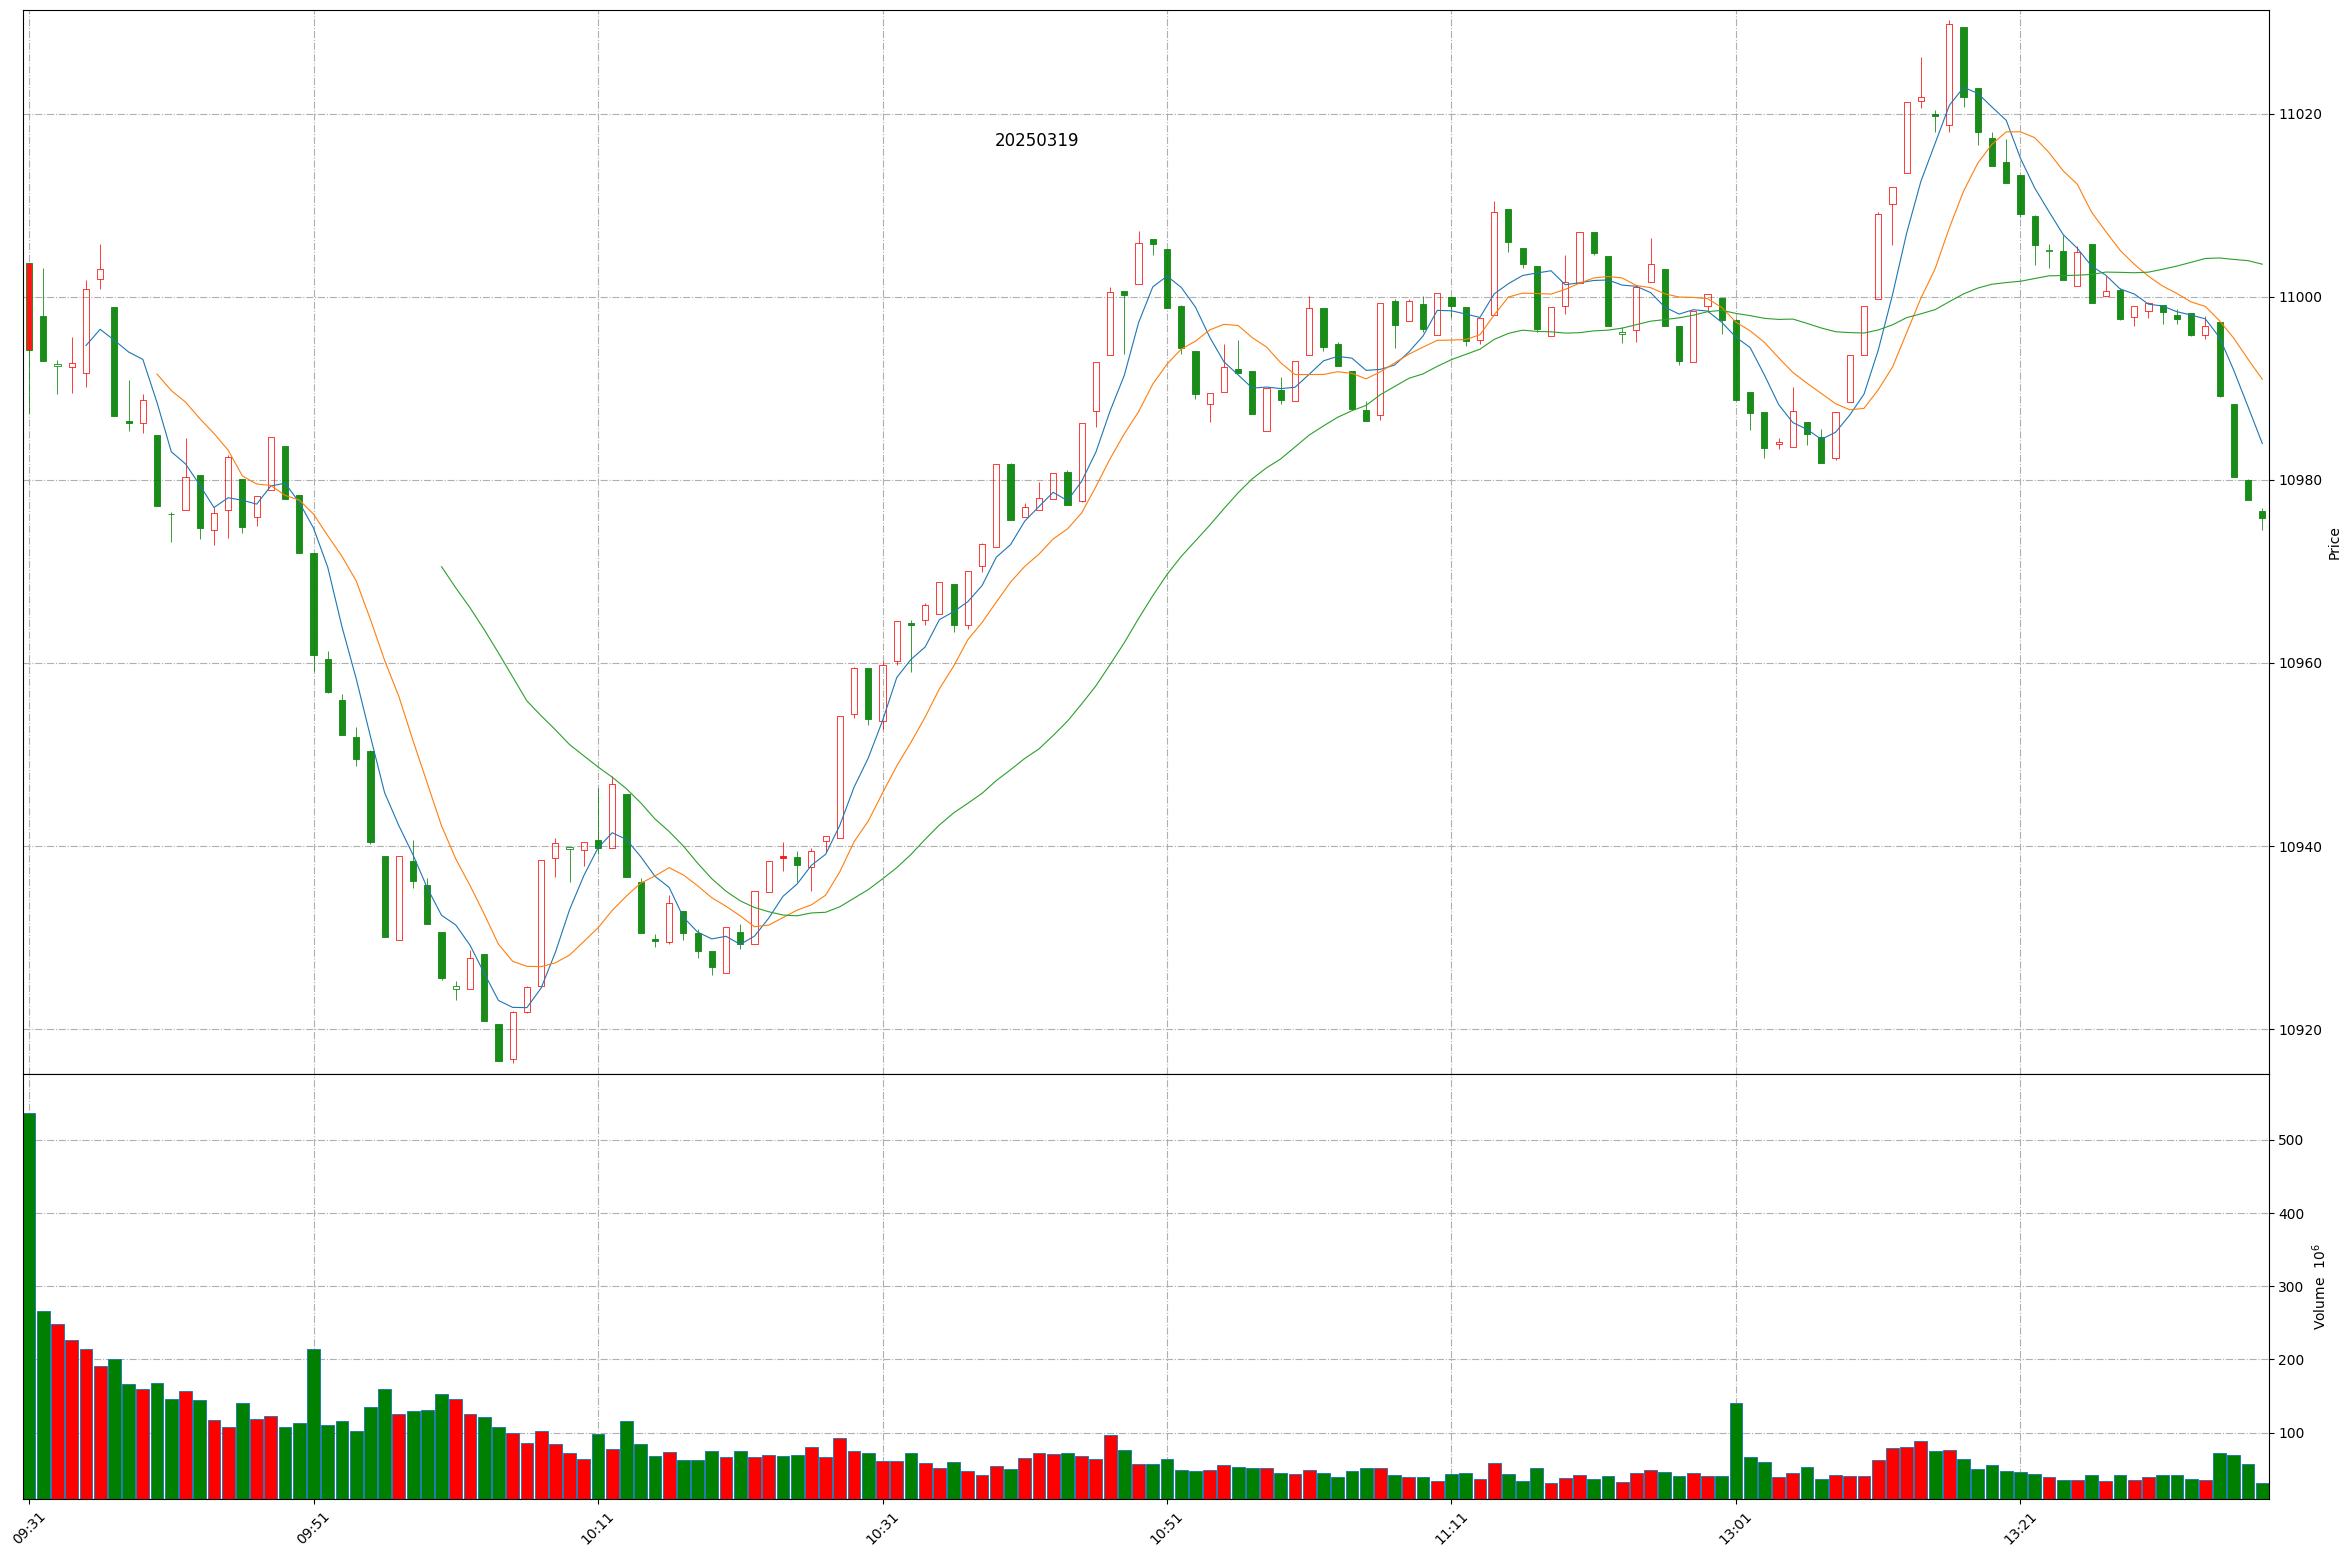
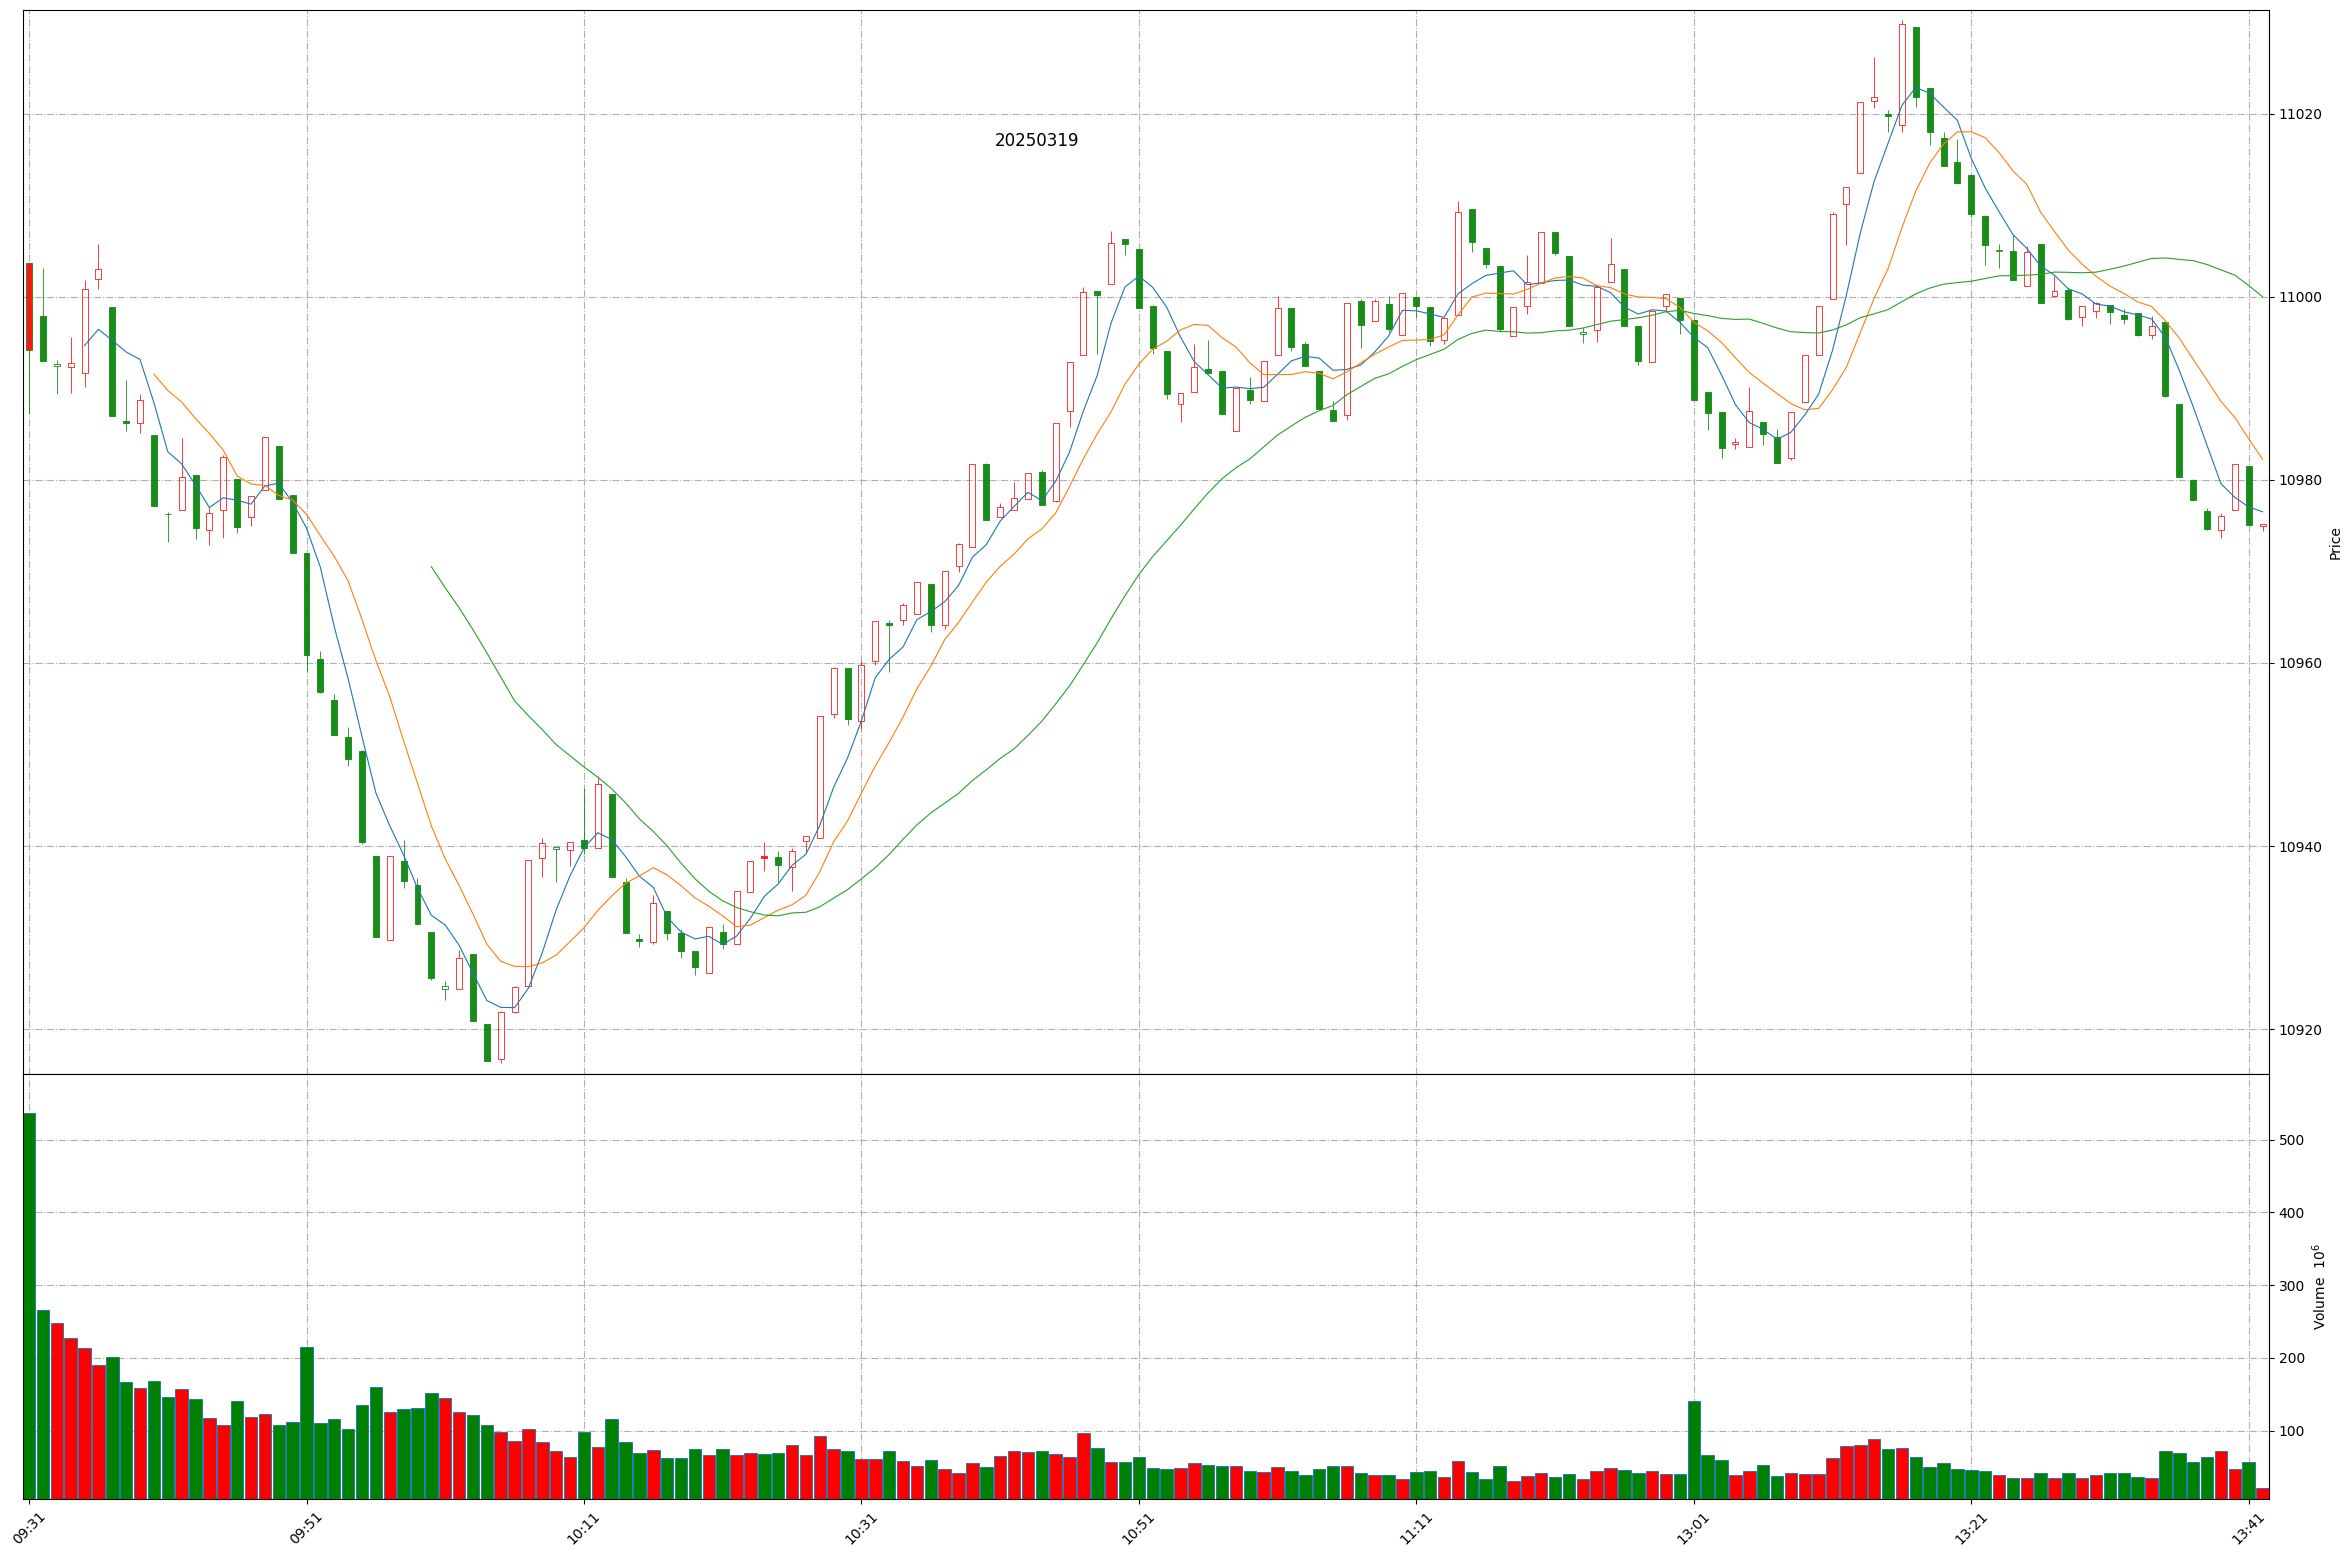
Github action update at 2025-03-19 13:41:45.

diff --git a/README.md b/README.md
@@ -1,11 +1,11 @@
 
 # Daily-A-share-market-quotes 每日 A 股指数（5min 更新）- 20250319
 
-### 上证指数 20250319 13:37
+### 上证指数 20250319 13:41
 ![](./fig/2025/3/20250319-sh000001.png)
 
-### 深证成指 20250319 13:37
+### 深证成指 20250319 13:41
 ![](./fig/2025/3/20250319-sz399001.png)
 
-### 北证50 20250319 13:37
+### 北证50 20250319 13:41
 ![](./fig/2025/3/20250319-bj899050.png)
